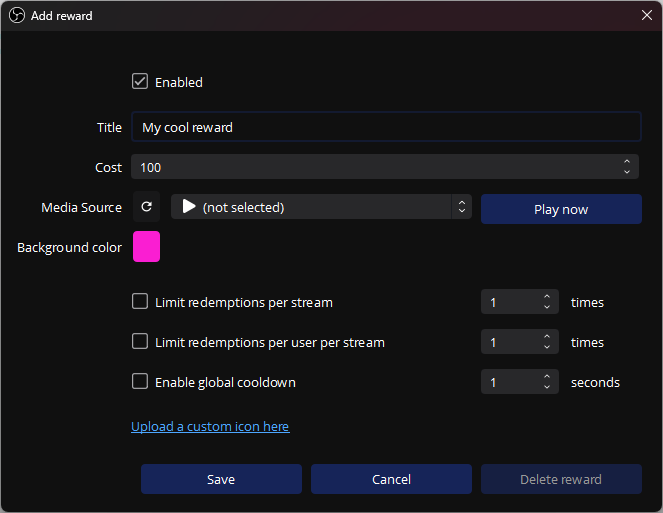
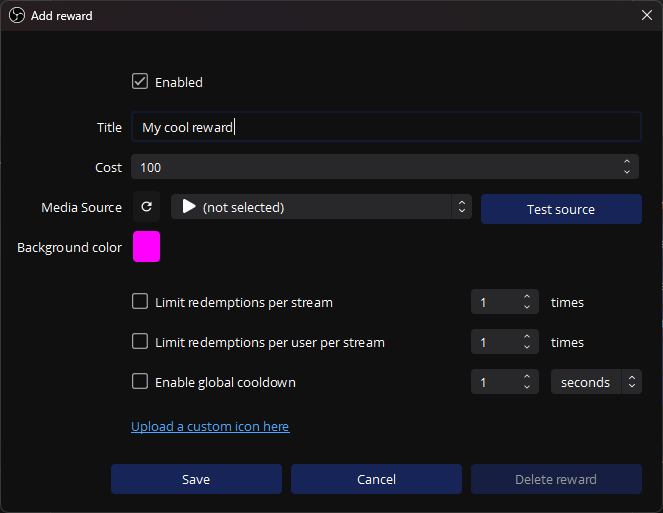
Updated README with new UI

diff --git a/README_uk.md b/README_uk.md
@@ -9,7 +9,8 @@
 - Вільне та відкрите програмне забезпечення.
 - Можна використовувати локально збережені відео. Не треба нічого завантажувати на сервер.
 - Є гарний інтерфейс для редагування нагород прямо всередині OBS!
-- Використовує вбудовані джерела відео OBS замість джерела «Браузер», тому вони не будуть «лагати».
+- Використовує вбудовані джерела відео OBS замість джерела «Браузер». Це означає більший FPS та значно кращу якість.
+- Ти можеш зручно розташувати відео в самому OBS.
 - Замовлення нагород можна поставити в чергу, щоб вони не грали одночасно.
 
 ![ui](readme_images/ui_uk.png)
@@ -22,7 +23,7 @@
 
 ## Установлення
 1. Завантаж та запусти інсталятор для своєї операційної системи [за цим посиланням](https://github.com/gottagofaster236/RewardsTheater/releases/latest).
-2. Додай джерело OBS для кожного відео, яке те хочеш додати як нагороду за бали каналу. Підтримуються «Джерело мультимедіа» або «Джерело відео VLC». Обери файл із відео зі свого комп'ютера.
+2. Додай джерело OBS для кожного відео, яке те хочеш додати як нагороду за бали каналу. Підтримуються «Джерело мультимедіа» або «Джерело відео VLC». Вибери файл із відео зі свого комп'ютера.
    
    ![source](readme_images/source_uk.png)
    
@@ -33,7 +34,7 @@
    
    ![tools](readme_images/tools_uk.png)
 4. Спочатку треба ввійти у Twitch, натиснувши на «Увійти».
-5. Потім треба натиснути на «Додати нагороду». Не забудь додати джерело, яке було створено раніше, як джерело мультимедіа для нагороди. Через обмеження API Twitch, завантажити свою іконку можна тільки в браузері.
+5. Потім треба натиснути на «Додати нагороду». Не забудь додати джерело, яке було створено раніше, як джерело мультимедіа для нагороди. **Натисни на «Перевірити джерело», щоб перевірити, чи працюватиме джерело.** Через обмеження API Twitch, завантажити свою іконку можна тільки в браузері.
    
    ![add_reward](readme_images/add_reward_uk.png)
 

diff --git a/README.md b/README.md
@@ -9,7 +9,8 @@ An [OBS](https://obsproject.com/) plugin that lets your viewers redeem videos or
 - Free and open source.
 - Use your locally saved videos, no need to upload anything to the server.
 - Has a nice UI to edit channel point rewards right inside OBS!
-- Plays the videos natively in OBS without a browser source, so they won't lag.
+- Plays the videos natively in OBS without a browser source. This means better FPS and quality.
+- You can position videos conveniently inside OBS itself.
 - Reward redemptions can be put in a queue so that they don't play simultaneously.
 
 ![ui](readme_images/ui.png)
@@ -33,7 +34,9 @@ An [OBS](https://obsproject.com/) plugin that lets your viewers redeem videos or
    
    ![tools](readme_images/tools.png)
 4. You'll have to log into Twitch first by clicking the "Log in" button.
-5. After that, you can hit "Add reward". Don't forget to select the source you added earlier as the Media Source for the reward. Due to the limitations of Twitch API, if you want to upload a custom icon, you're gonna have to do this inside the browser.
+5. After that, you can hit "Add reward". Select the source you added earlier as the Media Source for the reward. 
+**Hit "Test source" in order to test whether the source will work.**
+ Due to the limitations of Twitch API, if you want to upload a custom icon, you're gonna have to do this inside the browser.
    
    ![add_reward](readme_images/add_reward.png)
 
